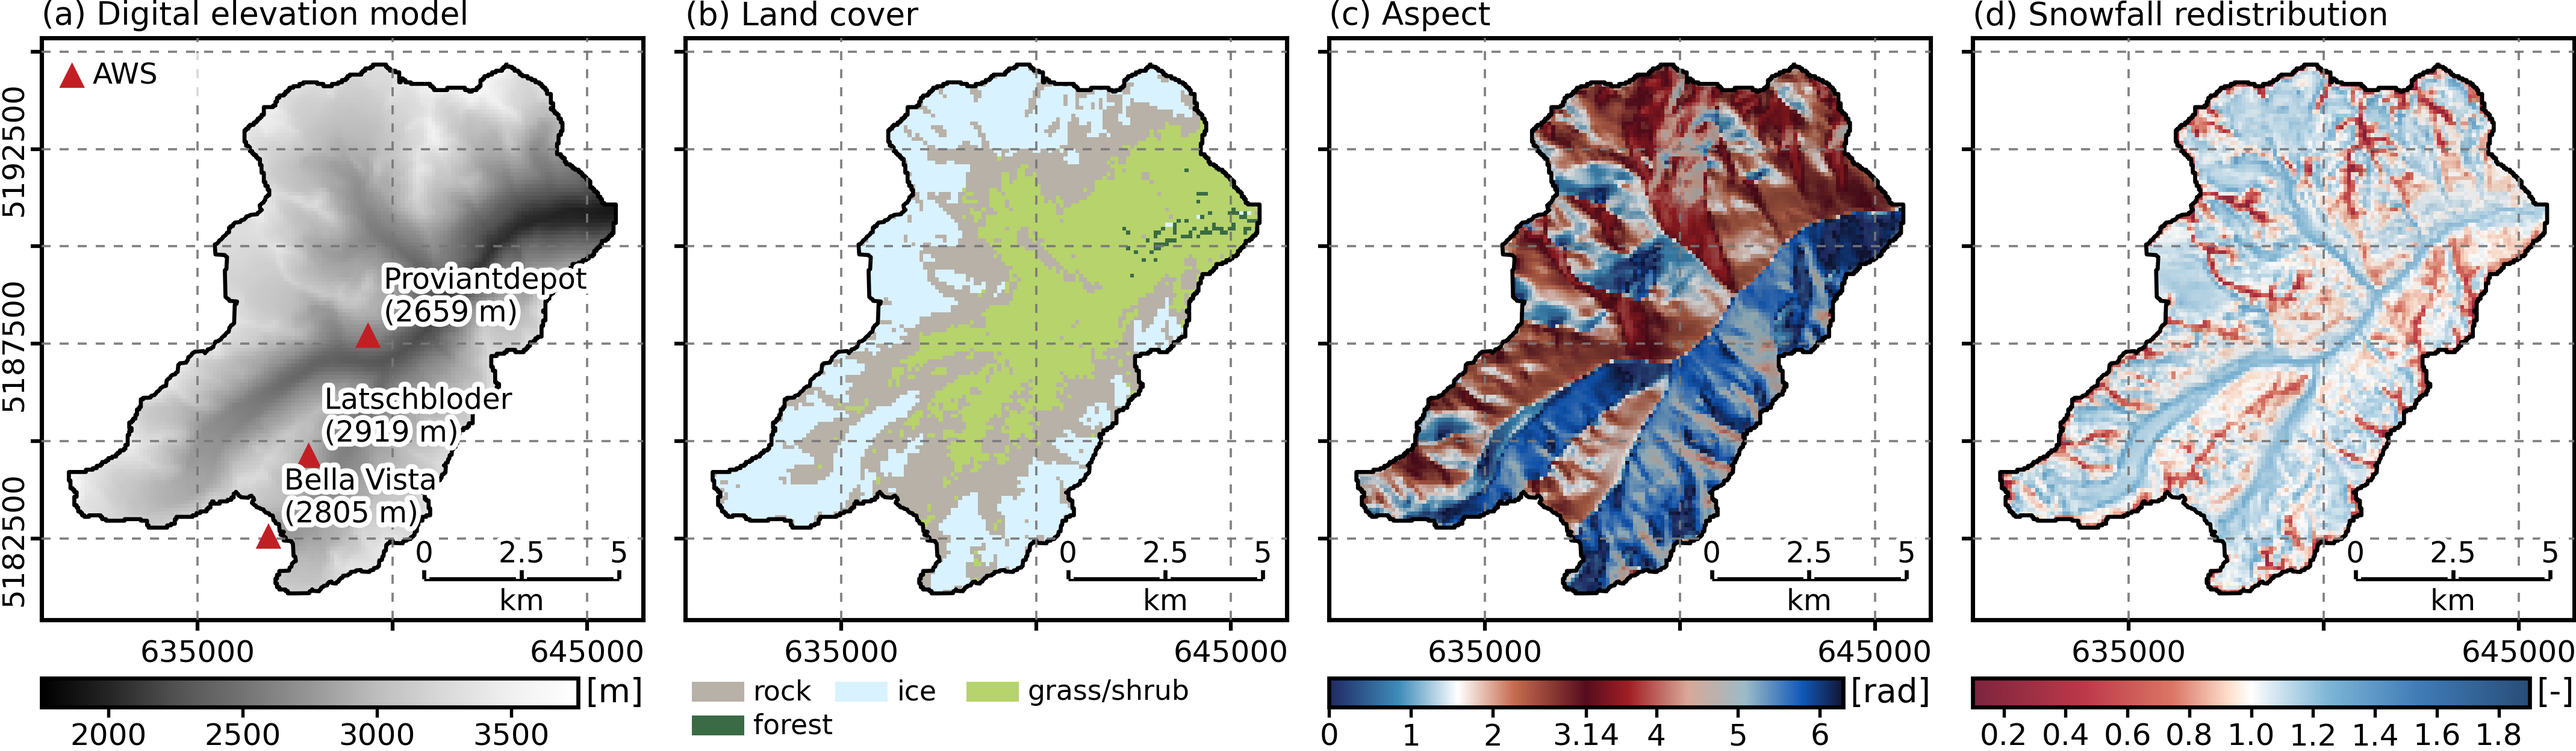
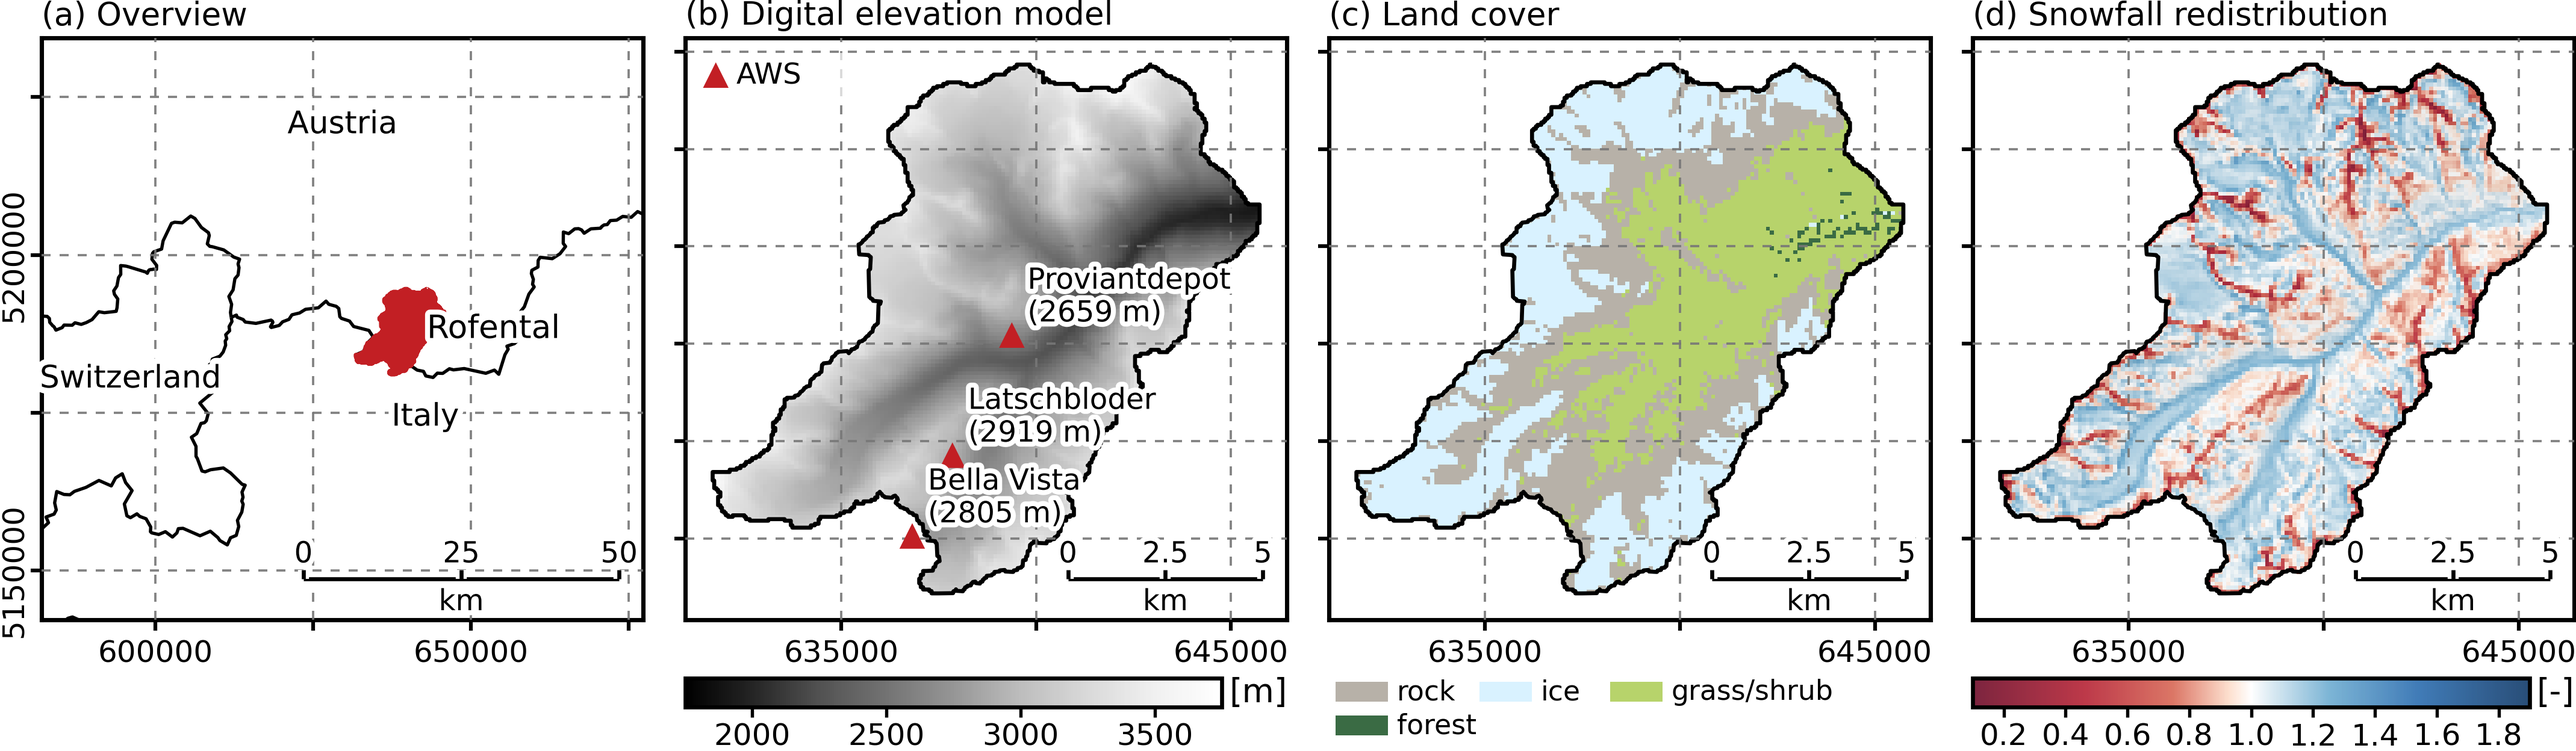
Update tutorial setup map with overview panel (#84)
* feat(tutorial): replace aspect panel with overview

* docs(tutorial): limit overview update to online guide

---------

diff --git a/docs/Tutorial/03-example-data-rofental.md b/docs/Tutorial/03-example-data-rofental.md
@@ -12,9 +12,9 @@ The tutorial uses the bundled Rofental setup as one concrete, reproducible examp
 This page describes that example once so later chapters do not need to repeat the same
 context.
 
-![Rofental tutorial setup overview map with DEM, forcing stations, land cover, aspect and SRF]({{ site.baseurl }}/assets/images/tutorial/rofental_2022_2023_es30/setup_overview.png?v=20260703)
+![Rofental tutorial setup map with an overview locator, DEM and forcing stations, land cover and SRF]({{ site.baseurl }}/assets/images/tutorial/rofental_2022_2023_es30/setup_overview.png?v=20260721)
 
-*Rofental tutorial setup map rendered from `projects/project_2022_2023/maps.yml`, showing the DEM with forcing stations, the Rofental manuscript land-cover grouping, aspect and the snow redistribution factor (SRF).*
+*Rofental tutorial setup map rendered from `projects/project_2022_2023/maps.yml`, showing the overview location, DEM with forcing stations, the Rofental land-cover grouping and the snow redistribution factor (SRF).*
 
 ## What Is Included
 
